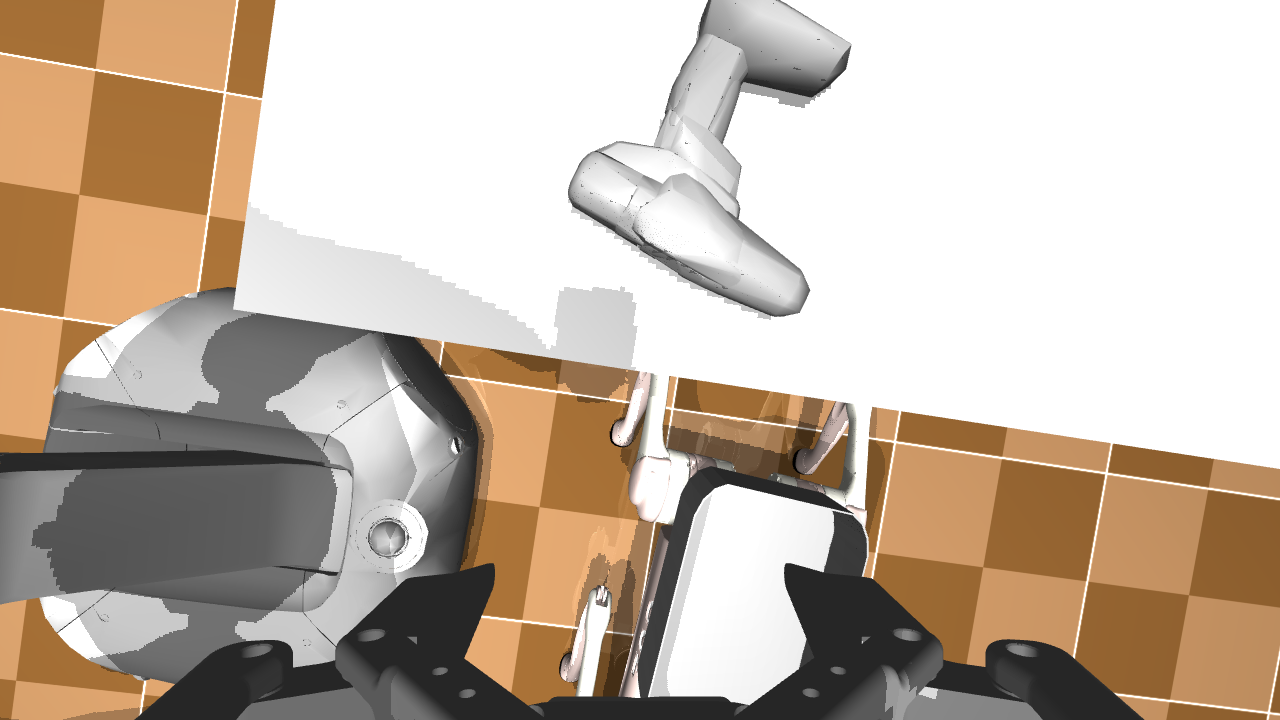
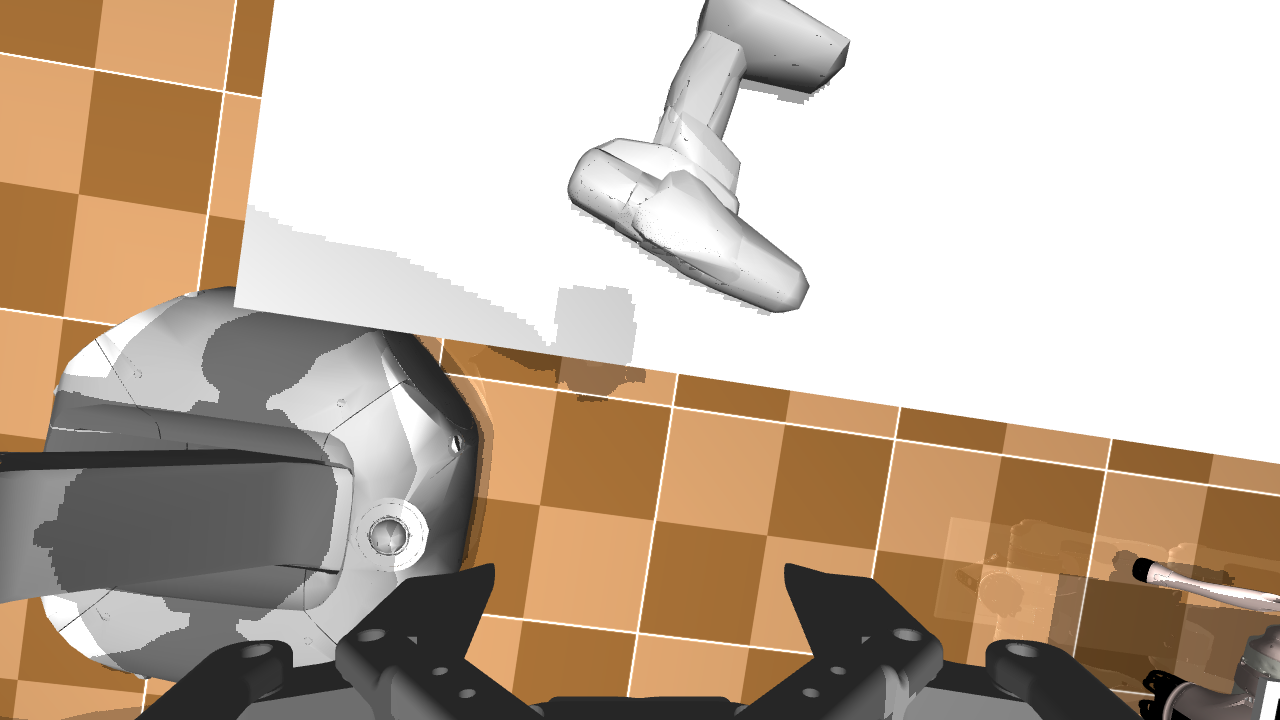
.

diff --git a/main_ver3.py b/main_ver3.py
@@ -264,6 +264,17 @@ def is_desired_qpos_for_post_grasp(qpos_arr: np.ndarray) -> bool:
 
     return cond1 and cond2 and cond3 and cond6 and cond7
 
+def is_desired_qpos_for_post_grasp1(qpos_arr: np.ndarray) -> bool:
+    # ... (维度检查不变)
+
+    
+    cond1 = (qpos_arr[0] >= -1.0) and (qpos_arr[0] <= -0.2)
+    cond3 = (qpos_arr[2] >= -0.5) and (qpos_arr[2] <= 0.5)
+    cond2 = (qpos_arr[1] >= -1.2) and (qpos_arr[2] <= 0.8) # cond2 保持不变
+    cond6 = (qpos_arr[5] >= -0.5) and (qpos_arr[5] <= 0.5) # cond6 保持不变
+    cond7 = qpos_arr[6] < 0                               # cond7 保持不变
+
+    return cond1 and cond2 and cond3 and cond6 and cond7
 def plan_grasp(env: WrapperEnv, grasp: Grasp, grasp_config, *args, **kwargs) -> Optional[List[np.ndarray]]:
     """Try to plan a grasp trajectory for the given grasp. The trajectory is a list of joint positions. Return None if the trajectory is not valid."""
     robot_cfg = get_robot_cfg("galbot")
@@ -295,7 +306,7 @@ def plan_grasp(env: WrapperEnv, grasp: Grasp, grasp_config, *args, **kwargs) -> 
 
     '''对轨迹的加强'''
     final_grasp_qpos = traj[-1] # check final qpos
-    if not is_desired_qpos_for_post_grasp(final_grasp_qpos):
+    if not is_desired_qpos_for_post_grasp1(final_grasp_qpos):
         print(f"The grasp plan is not good: because a loop is included!")
         return None # 返回 None，指示这个轨迹不合格 """
     
@@ -413,9 +424,9 @@ def main():
     parser.add_argument("--robot", type=str, default="galbot")
     parser.add_argument("--obj", type=str, default="power_drill")
     parser.add_argument("--ctrl_dt", type=float, default=0.02)
-    parser.add_argument("--headless", type=int, default=1) # 暂时不显式
+    parser.add_argument("--headless", type=int, default=0) # 暂时不显式
     parser.add_argument("--reset_wait_steps", type=int, default=100)
-    parser.add_argument("--test_id", type=int, default=0)
+    parser.add_argument("--test_id", type=int, default=2)
     parser.add_argument("--try_plan_num", type=int, default=3) # for each grasp, find ik
 
     args = parser.parse_args()
@@ -633,8 +644,12 @@ def main():
     if not DISABLE_GRASP:
         print("*"*80,"\nStage 3: grasp and lift task begin")
         # 预先设置：
+        print("The driller pose is ", driller_pose)
+        print("The driller pose is ", T_to_pose7d(driller_pose))
         obj_pose = driller_pose.copy()
-        obj_pose = env.get_driller_pose()
+        obj_pose1 = env.get_driller_pose()
+        print(f"Object pose in the simulation is {obj_pose1}!") 
+        print(f"Object pose in the simulation is {T_to_pose7d(obj_pose1)}!")
         print(f"Object pose is {T_to_pose7d(obj_pose)}!")
         grasps = get_grasps(args.obj)  # 得到了 8 个 grasp
 
@@ -644,7 +659,7 @@ def main():
         # grasps[0] 应该是可以成功的
         est_trans = obj_pose[:3,3]
         est_rot = obj_pose[:3,:3]
-
+        est_trans[2] -= 0.05 # 让它更低一点，夹得更稳
         grasp_config = dict( 
             reach_steps=20,
             delta_dist=0.01
@@ -696,7 +711,7 @@ def main():
             [ -0.6, -1.5842,  -0.7, -1.4229, -0.9842, -0.2657, -0.5892],
         ])
 
-        def interpolate_joint_trajectory(traj, num_interp=5):
+        def interpolate_joint_trajectory(traj, num_interp=10):
             """
             对机械臂的关节角度序列进行线性插值，每对相邻帧之间插入若干中间帧。
             """

diff --git a/main.py b/main.py
@@ -334,7 +334,7 @@ def main():
     print(f"{constants.PC_MIN=}, {constants.PC_MAX=}")
 
 
-    observing_qpos = humanoid_init_qpos + np.array([0.01, 0., 0.15, 0., 0., 0. , 0.15]) # you can customize observing qpos to get wrist obs
+    observing_qpos = humanoid_init_qpos + np.array([0.01, 0., 0.25, 0., 0., 0. , 0.15]) # you can customize observing qpos to get wrist obs
     # observing_qpos = humanoid_init_qpos + np.array([0.01, 0., 0.,0., 0.35, 0., 0.]) # you can customize observing qpos to get wrist obs
     # observing_qpos = humanoid_init_qpos + np.array([0.01,0,0,0,0.,0.,0]) # you can customize observing qpos to get wrist obs
     # target_qpos = move_wrist_camera_higher(env, delta_z=0.001) # move wrist camera higher to get better view
